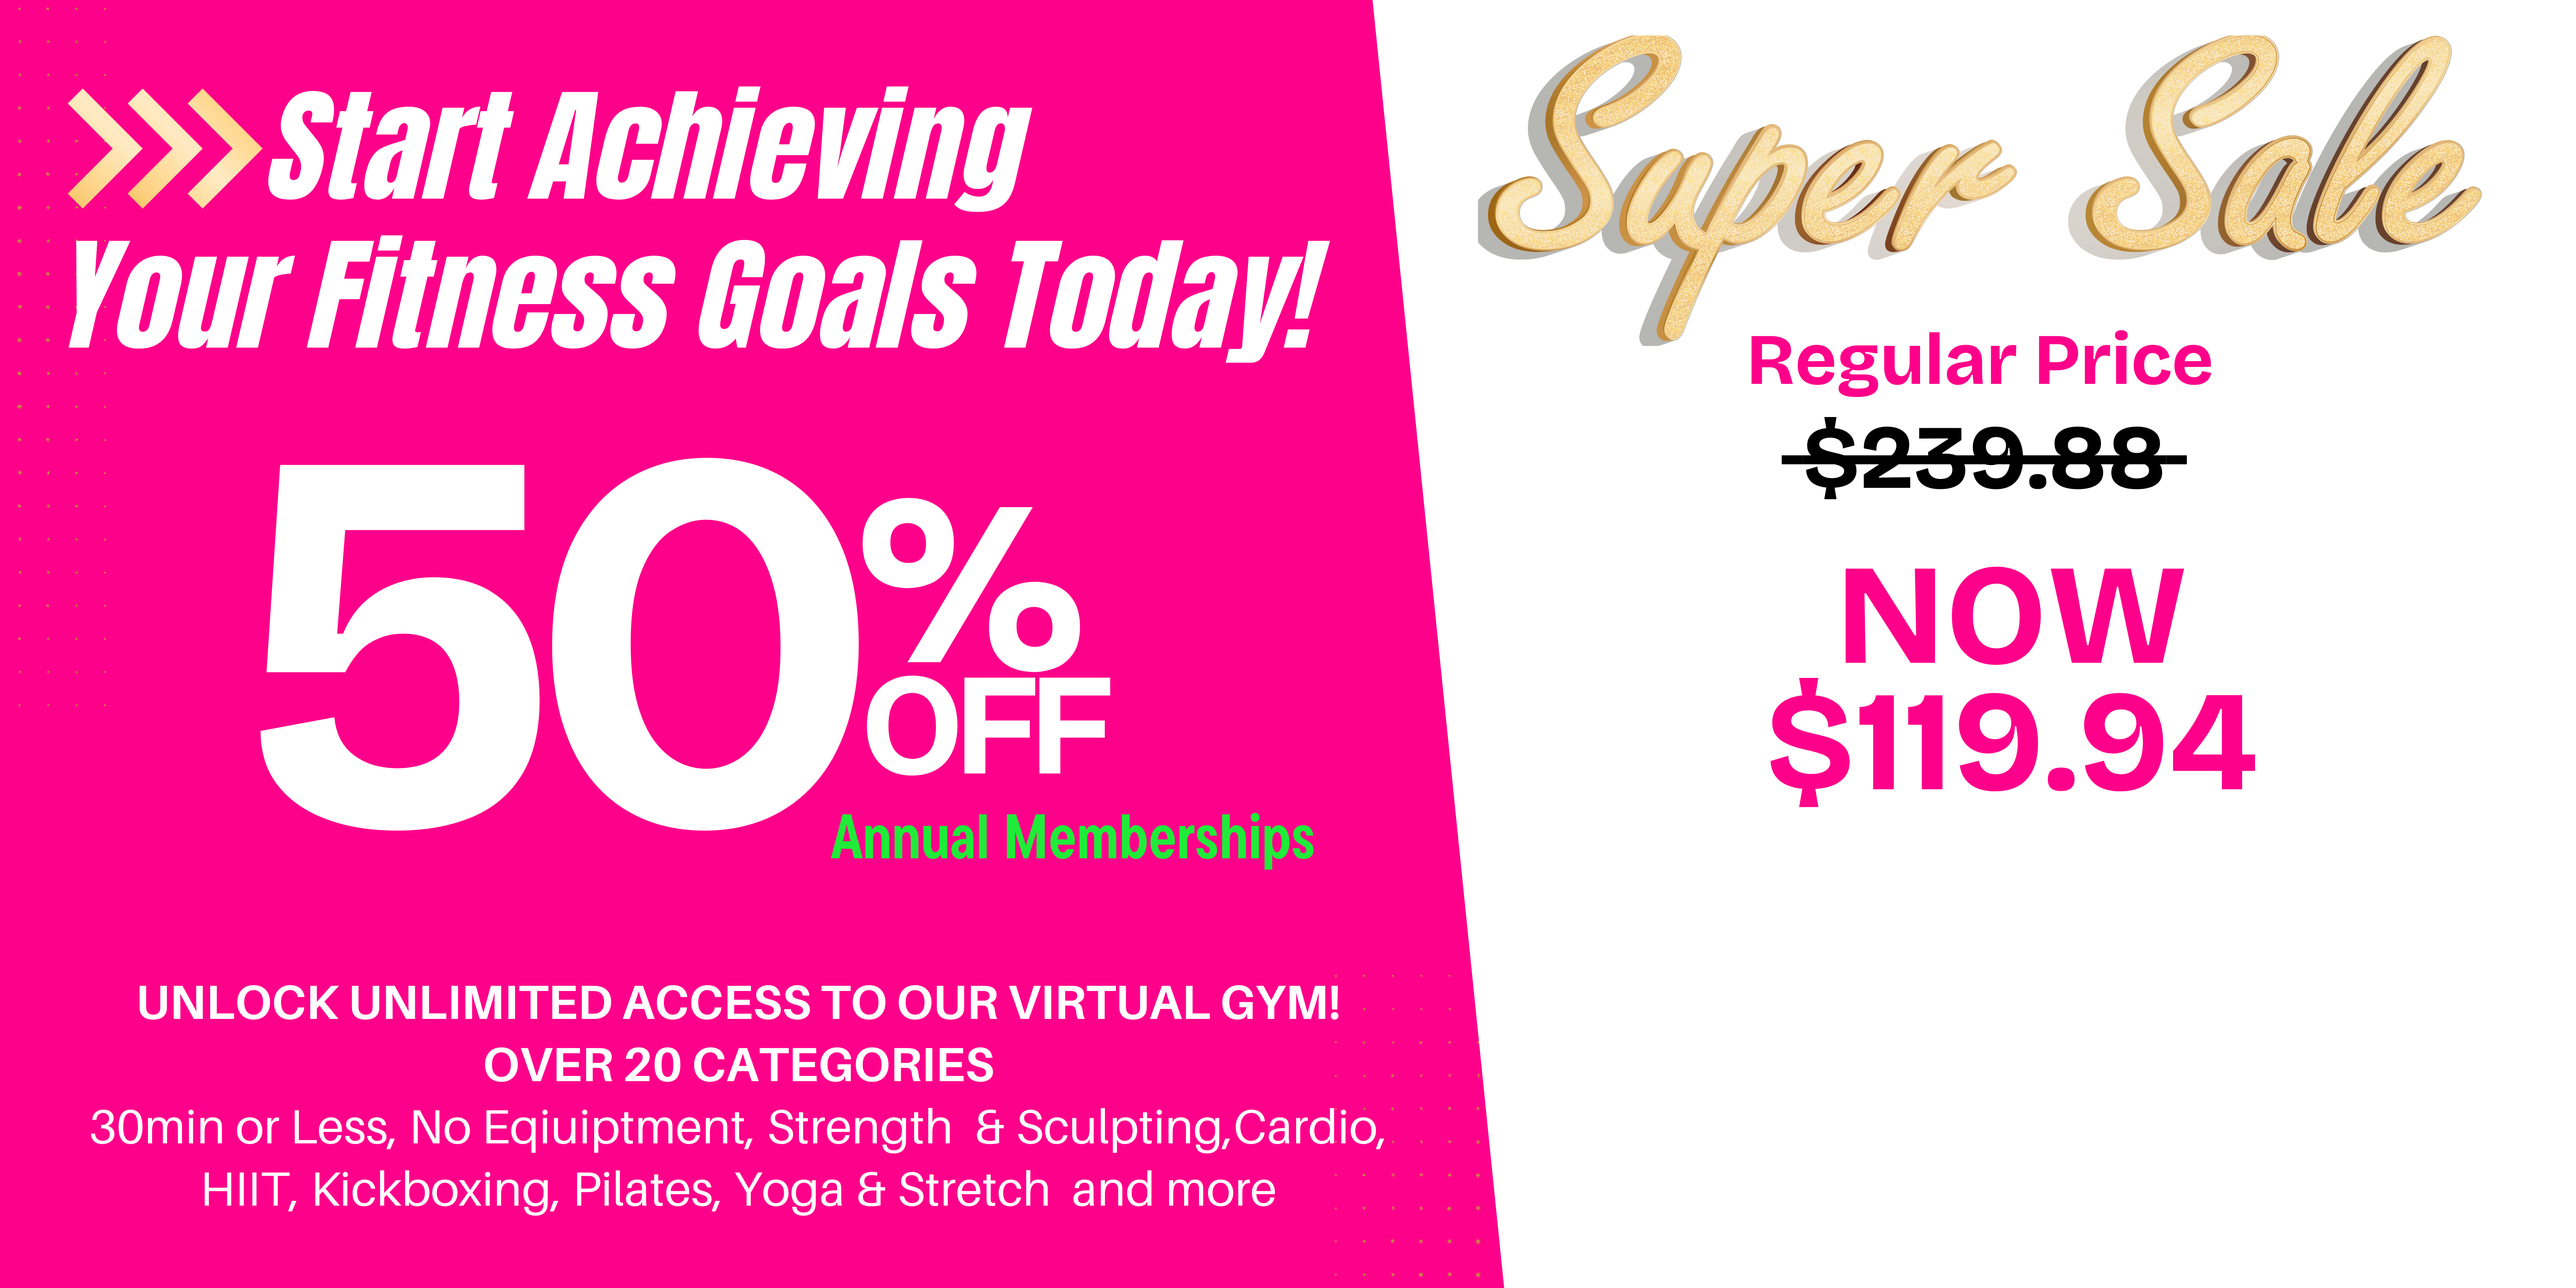
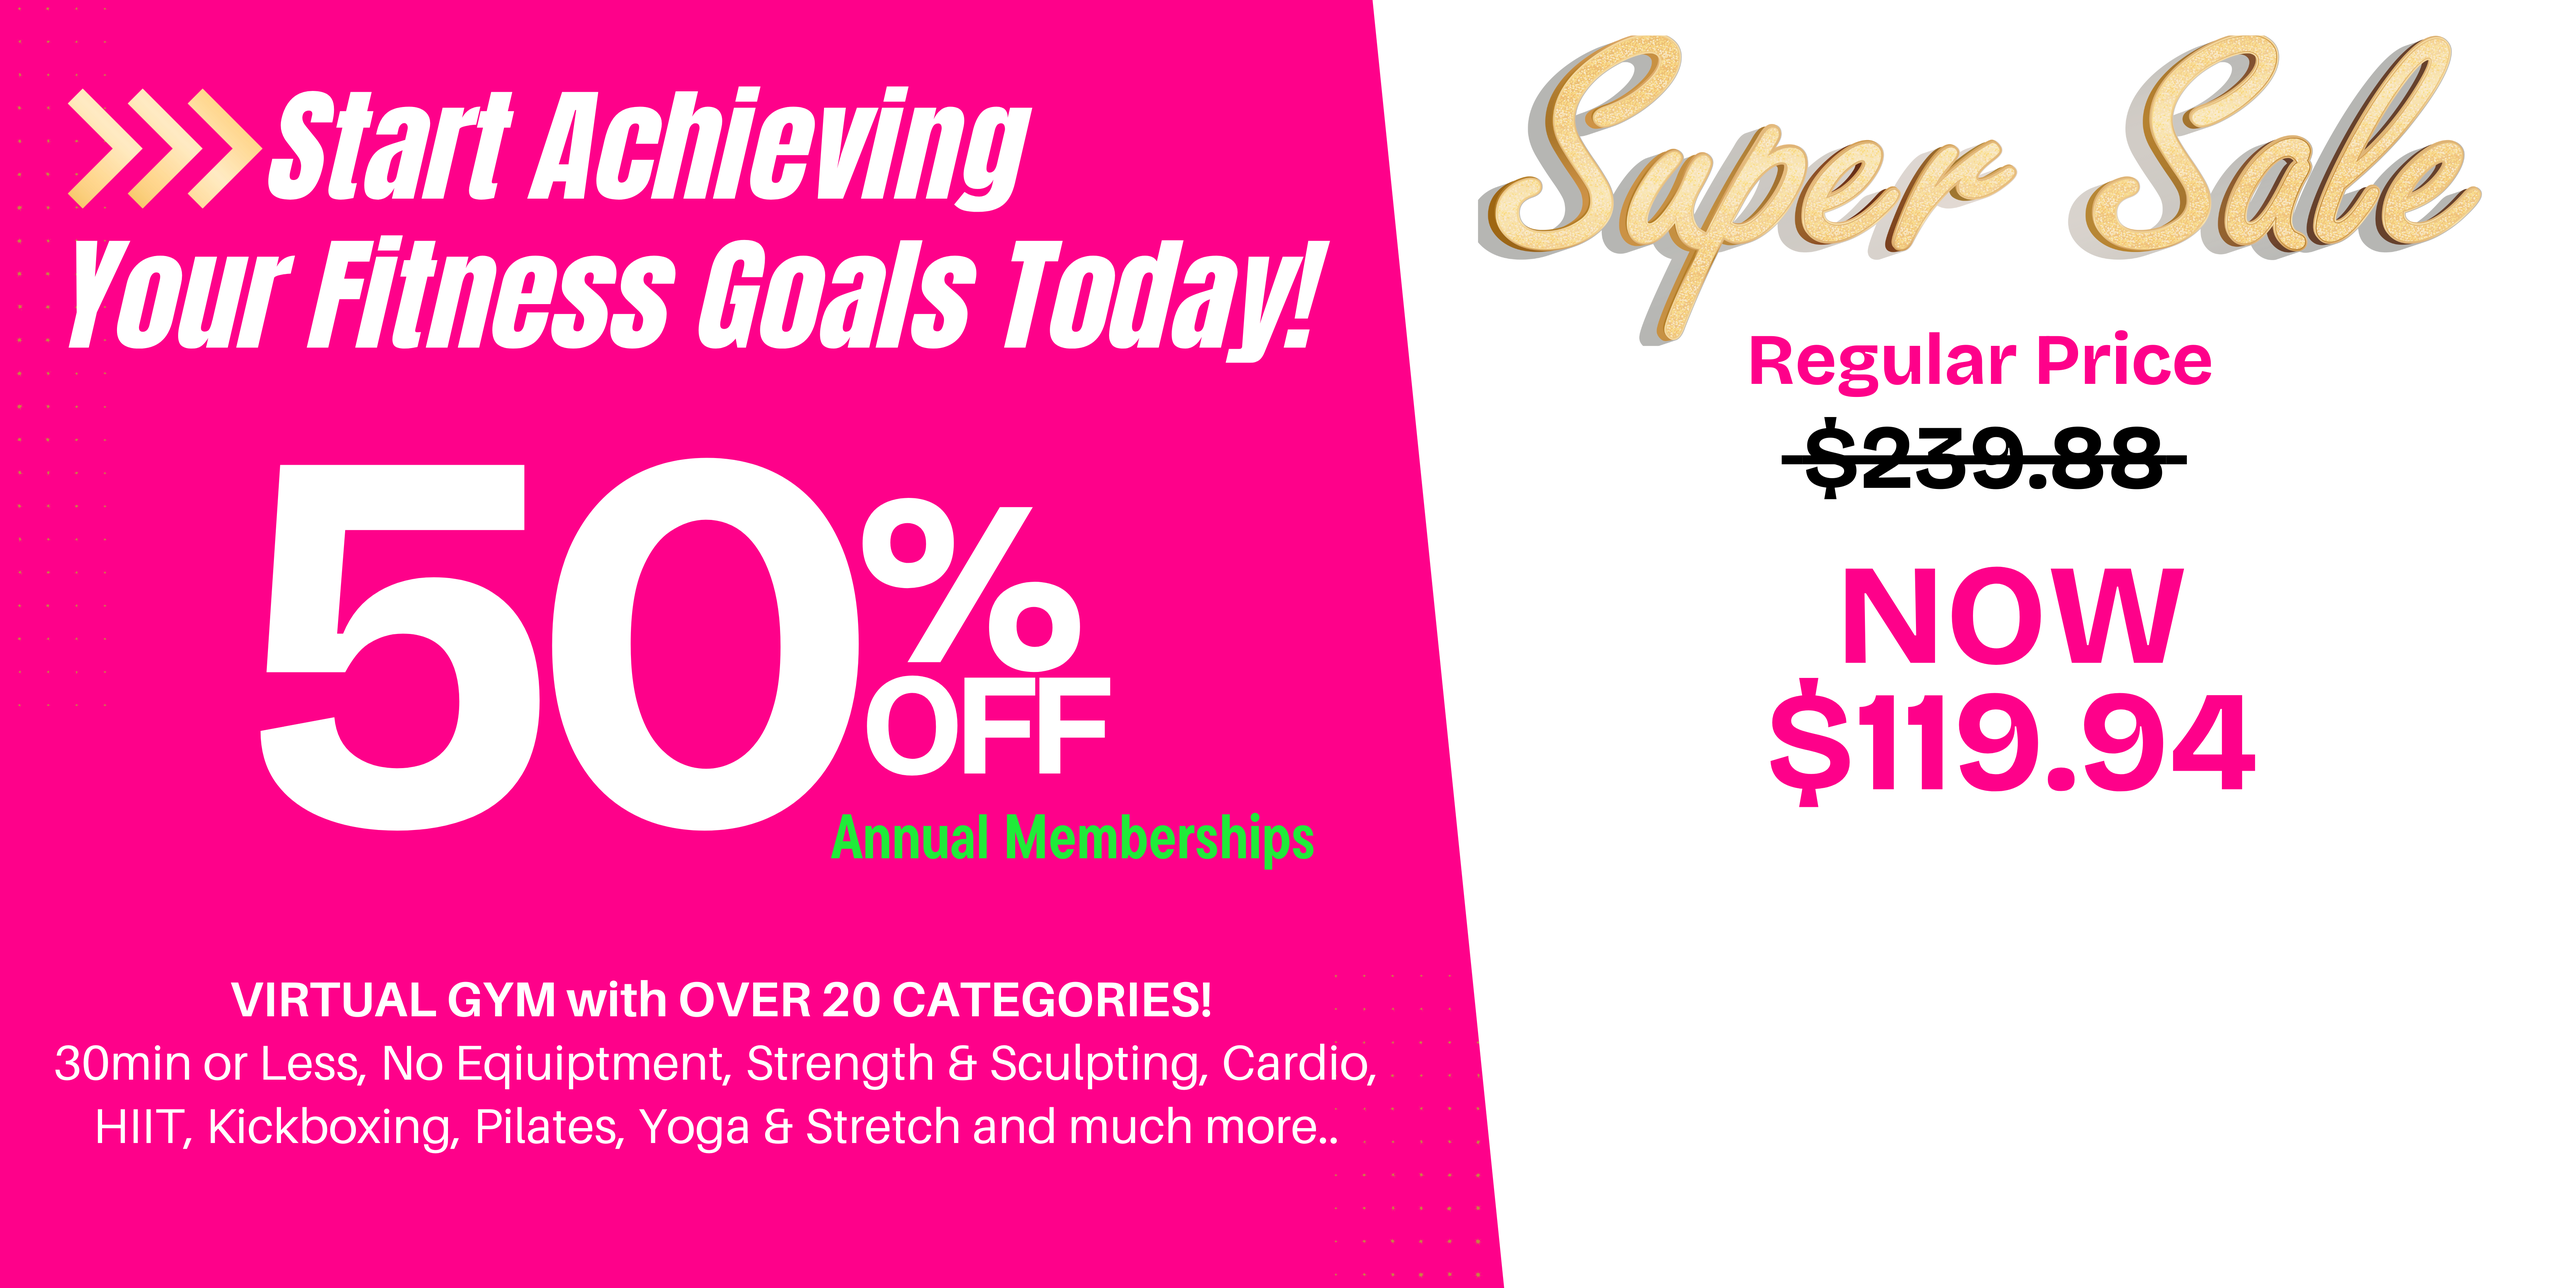
19-12 bg 12 brijesh

Changed region(s): [[0.0, 0.75, 0.5312, 0.9375]]

diff --git a/css/style.css b/css/style.css
@@ -129,7 +129,7 @@ ul {
   text-transform: uppercase;
   padding: 18px 30px;
   font-weight: bold;
-  background-image: url(..//img/btn-bg.png);
+  background-image: url(..//img/btn-bg.svg);
   background-repeat: no-repeat;
   background-position: center;
   background-size: contain;
@@ -143,7 +143,7 @@ ul {
 }
 .banner-section .bg-mobile a {
   position: absolute;
-  background-image: url(..//img/btn-bg.png);
+  background-image: url(..//img/btn-bg.svg);
   background-repeat: no-repeat;
   background-position: center;
   background-size: contain;
@@ -414,7 +414,7 @@ ul {
   font-size: 60px;
   color: #000;
   text-align: center;
-  font-size: 48px;
+  font-size: 36px;
   font-family: Inter-Bold;
   margin-top: -5px;
 }
@@ -503,8 +503,8 @@ ul {
 .subscribe-section {
   padding: 80px 0px;
   margin-top: 70px;
-  /* background-image: url(..///img/subscribe.webp); */
-  background-color: #fe018a;
+  background-image: url(..///img/subscribe.webp);
+  /* background-color: #fe018a; */
   background-repeat: no-repeat;
   background-position: center;
   background-size: cover;
@@ -514,40 +514,43 @@ ul {
   text-align: center;
 }
 .subscribe-dec h1 {
-  font-size: 50px;
+  font-size: 100px;
   text-transform: uppercase;
   font-family: Inter-Bold;
-  margin-bottom: 30px;
+  margin-bottom: 0px;
 }
 .subscribe-dec h2 {
-  color: #000000;
-  font-size: 125px;
+  font-size: 45px;
   font-family: Inter-Bold;
   margin-bottom: 0px;
+  text-transform: capitalize;
+  color: #fff;
+}
+.subscribe-dec h2 span {
+  font-size: 110px;
+  color: #fe018a;
+  text-shadow: 0 0 5px #fff, 0 0 0px #fff, 0 0 20px #fff, 0 0 0px #fe018a,
+    0 0 0px #fe018a, 0 0 0px #fe018a, 0 0 0px #fe018a, 0 0 20px #fe018a;
+}
+.subscribe-dec p {
+  font-size: 30px;
+  margin-top: 40px;
+  margin-bottom: 20px;
+  color: #fff;
+  font-family: Inter-Bold;
 }
 .subscribe-dec h3 {
   font-size: 74px;
   font-family: Inter-Bold;
   margin-bottom: 0px;
 }
-.subscribe-dec h3 span {
-  color: #2bc43d;
-  font-family: RobotoSlab-Bold;
-}
-.subscribe-dec p {
-  font-size: 36px;
-  margin-top: 40px;
-  margin-bottom: 20px;
-  color: #000000;
-  display: flex;
-  align-items: center;
-  justify-content: center;
-  font-family: Inter-Bold;
-}
 .subscribe-dec p span {
-  color: #fff;
+  color: #fe018a;
   margin-left: 0px;
-  margin-right: 10px;
+  margin-left: 10px;
+}
+.subscribe-dec h2 span .off-text {
+  font-size: 70px;
 }
 .subscribe-dec a {
   color: rgb(255, 255, 255);

diff --git a/index.html b/index.html
@@ -541,7 +541,10 @@
             data-wow-duration="0.4s"
             data-wow-delay="0.2s"
           >
-            <span>Our Most Popular Membership </span>
+            <span
+              >Unlock Unlimited Access to 500+ Workouts, Bootcamps &
+              Challenges!</span
+            >
           </h3>
           <div class="membership-btn">
             <a
@@ -630,26 +633,28 @@
     <section class="subscribe-section">
       <div class="container">
         <div class="subscribe-dec">
+          <h1
+            class="wow fadeInUp"
+            data-wow-duration="0.3s"
+            data-wow-delay="0.3s"
+          >
+            Special Offer
+          </h1>
           <h2
             class="wow fadeInUp"
             data-wow-duration="0.4s"
             data-wow-delay="0.3s"
           >
-            SUPER SALE
+            <span>50% <span class="off-text">off</span> </span> annual
+            membership
           </h2>
-          <h3
-            class="wow fadeInUp"
-            data-wow-duration="0.5s"
-            data-wow-delay="0.3s"
-          >
-            <span> 50% OFF</span> Annual Memberships
-          </h3>
           <p
             class="wow fadeInUp"
             data-wow-duration="0.6s"
             data-wow-delay="0.3s"
           >
-            <span> Our Most Popular Membership </span>Biggest Savings
+            Our Best-selling Membership:
+            <span> Maximum Savings!</span>
           </p>
           <a
             href="https://thehollywoodtrainerclub.com/sign-up/"
